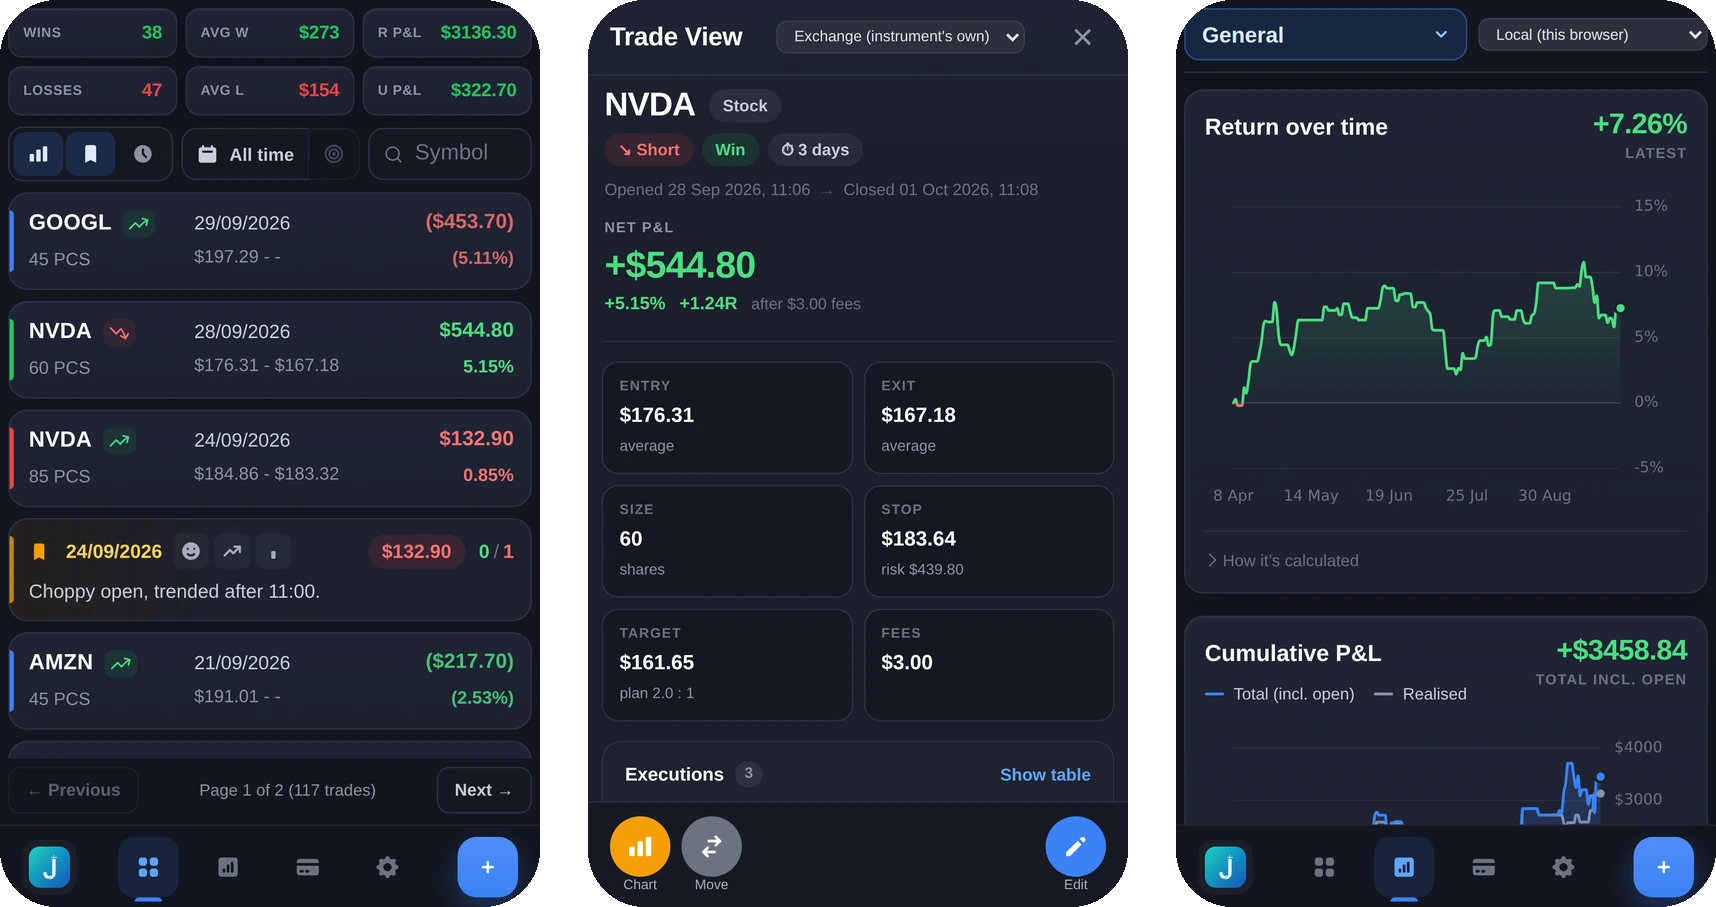
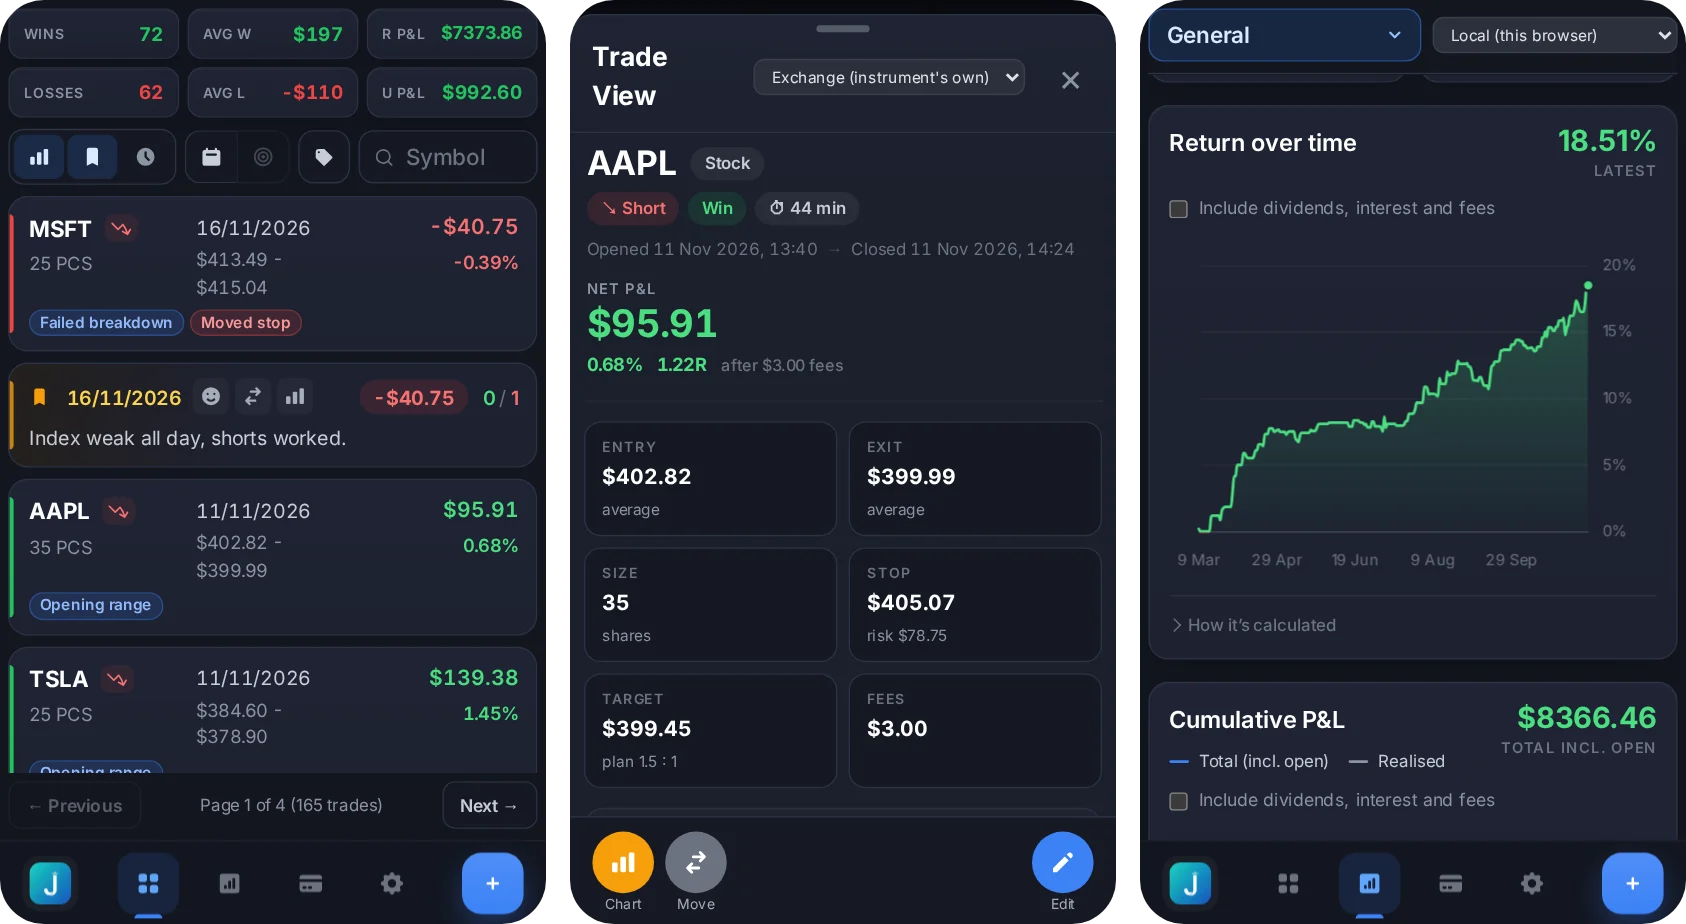
docs: current screenshots, features and setup notes
- Screenshots retaken from a generated demo journal (made-up trades and
  price history), plus a new trade chart shot: they now show the
  current look (status lights, sign rule, tags, phone cards).
- README lists the features added since: TradingView live bars, TWS and
  Flex fill imports, Capital, sub-accounts, light theme, phone layout.
- SETUP: the IBKR settings section is called "IBKR API" now; links to
  the TradingView and Cloudflare guides.
- TradingView guide: the webhook secret is added by hand to config.json
  (the app doesn't generate one).
- External API: money is in the currency named next to it, not the
  account's; a neutral analyzer name in the examples.
- AI coding instructions rewritten to match the code (no .env sample,
  contexts, task priorities, theming, the public-repo rule).
- .claude/ is git-ignored; config.json, Uploads and preview folders stay
  out of the Docker build context.

diff --git a/docs/SETUP.md b/docs/SETUP.md
@@ -58,8 +58,8 @@ Open the app and go to **Settings**:
 1. **Database** — paste your `postgresql://...` connection string. On save, the app tests the connection, then creates/migrates its schema. No manual SQL beyond step 1 is needed.
 2. **IBKR (optional)** — if you run TWS or IB Gateway:
    - In TWS/Gateway: enable the API (**Configuration → API → Settings → Enable ActiveX and Socket Clients**), and add the app's host to **Trusted IPs** if it's not running on the same machine.
-   - In the app's Settings: enter the host/port (default paper-trading port is `7497`, live is `7496`). A second address can be set as a fallback.
-   - Without IBKR connected, the app still works fully off Yahoo Finance — you'll just miss IBKR's higher-quality data and Flex Web Service imports.
+   - In **Settings → IBKR API**: enter the host/port (default paper-trading port is `7497`, live is `7496`; IB Gateway uses `4002`/`4001`). A second address can be set as a fallback. The trade form can then import your fills straight from TWS.
+   - Without IBKR connected, the app still works fully off Yahoo Finance — you'll just miss IBKR's higher-quality price history and the TWS fill import. Flex Web Service imports (next step) don't need TWS.
 3. **IBKR Flex Web Service (optional)** — for importing trades directly from IBKR, and optionally the account's cash activity (fees, interest, dividends, deposits): generate a Flex Web Service token and the Flex Queries in IBKR's Client Portal, and paste the token + query IDs into Settings → IBKR API. That page has a step-by-step guide to what to tick in IBKR's Flex Query editor, and a **Check** button that tests the saved queries and says what's missing.
 4. **Symbols** — add each symbol you trade (Settings → Symbols), including tick size/value, fees, exchange, and which timeframes to fetch. Every enabled timeframe is fetched as far back as the provider allows — no need to guess how much history to request.
 
@@ -72,7 +72,7 @@ Add a trade for a symbol you've configured, open its chart, and watch the server
 - **WebSocket status/progress indicator never connects in dev mode** — see the `REACT_APP_API_URL` note under Option B above.
 - **IBKR contract errors ("No security definition has been found")** — usually a currency/exchange mismatch for that symbol (e.g. a non-USD stock). Double-check the exchange configured for that symbol matches what IBKR expects (IBKR's own exchange codes, not always the plain-English name).
 - **Historical fetch seems stuck on one symbol for a long time** — normal for 1-minute bars on IBKR: they're chunked 7 days at a time with IBKR's own pacing delay between requests, and "as far back as possible" for a liquid, long-listed symbol can mean walking back years of chunks. It only pays this cost once per symbol/timeframe — once IBKR's real limit is discovered, it's cached and every future run skips straight past it.
-- **HIS light red (IBKR historical data not answering)** — IB Gateway can stay connected while answering no historical requests, e.g. after it reconnects to IBKR's servers; restarting it fixes that. If the gateway runs with [IBC](https://github.com/IbcAlpha/IBC), the app can ask it to reconnect by itself: enable IBC's command server (`CommandServerPort=7462`, and `ControlFrom=` this app's host name) and enter the gateway's host and that port under **Settings → TWS → Gateway auto-reconnect**. After two failed requests in a row it then sends `RECONNECTDATA`, at most every 15 minutes, and if requests still fail 5 minutes later `RESTART` (at most once an hour). A `RESTART` logs in again with the gateway's saved session, which IBKR only accepts until its weekly cut-off (Sunday 01:00 US/Eastern), so the app sends none on Sundays between 01:00 and 18:00 ET. Only enable the command server where nothing but this app can reach it: it also accepts commands such as `STOP`.
+- **HIS light red (IBKR historical data not answering)** — IB Gateway can stay connected while answering no historical requests, e.g. after it reconnects to IBKR's servers; restarting it fixes that. If the gateway runs with [IBC](https://github.com/IbcAlpha/IBC), the app can ask it to reconnect by itself: enable IBC's command server (`CommandServerPort=7462`, and `ControlFrom=` this app's host name) and enter the gateway's host and that port under **Settings → IBKR API → Gateway auto-reconnect**. After two failed requests in a row it then sends `RECONNECTDATA`, at most every 15 minutes, and if requests still fail 5 minutes later `RESTART` (at most once an hour). A `RESTART` logs in again with the gateway's saved session, which IBKR only accepts until its weekly cut-off (Sunday 01:00 US/Eastern), so the app sends none on Sundays between 01:00 and 18:00 ET. Only enable the command server where nothing but this app can reach it: it also accepts commands such as `STOP`.
 - **HIS light red, "IB Gateway logged out"** — the gateway hasn't accepted an API connection for 10 minutes. It only opens its API port once logged in, so it's usually sitting at its login screen, e.g. after a restart IBKR answered with "Session expired" because the weekly full login was due. Nothing the app can send fixes that: it stops asking the gateway to reconnect or restart and tries to connect once a minute until a connection works again. A fresh start of the gateway (with IBC, a restart of its container) logs in from scratch; IBC's `ColdRestartTime` setting does that every week by itself, best set to a time on Sunday after the cut-off.
 - **No data at all for a symbol** — check `GET /api/historical/limits?symbol=...&type=...` (or the Settings page) to see what's been discovered so far, and check the server log for the specific fetch error.
 
@@ -85,4 +85,8 @@ Add a trade for a symbol you've configured, open its chart, and watch the server
 | Trade/day-note attachments | your PostgreSQL database (`Uploads/` only holds upload temp files) |
 | Everything else (trades, journal entries, price history) | your PostgreSQL database |
 
-See also **[EXTERNAL_API.md](../EXTERNAL_API.md)** if you want another tool (e.g. an AI trade-analysis script) to read/write this data.
+See also:
+
+- **[EXTERNAL_API.md](../EXTERNAL_API.md)** if you want another tool (e.g. an AI trade-analysis script) to read/write this data.
+- **[tradingview-webhook.md](tradingview-webhook.md)** to feed live 1-minute bars from TradingView alerts.
+- **[cloudflare-access.md](cloudflare-access.md)** to reach the journal from outside your network behind a login.

diff --git a/.github/copilot-instructions.md b/.github/copilot-instructions.md
@@ -1,65 +1,46 @@
 # JJournal - AI Coding Instructions
 
-JJournal is a full-stack application for stock and futures trading journaling with AI analysis capabilities. This guide outlines key patterns and workflows to help AI agents be productive in this codebase.
+JJournal is a self-hosted trading journal for stocks and futures: trades and day notes, price charts from Yahoo Finance, IBKR and TradingView, stats, and a cash ledger (Capital). This guide outlines the patterns that matter when changing the code.
 
 ## Architecture Overview
 
-### Frontend (React)
-- Entry point: `src/App.jsx` manages the main view state and modal interactions
-- Components follow modular structure in `src/components/`
-- Context-based state management using `TradeContext` (`src/context/TradeContext.js`)
-- Each feature has its own directory with component + CSS module
+### Frontend (React 18, Create React App built via CRACO)
+- Entry point: `src/App.jsx` holds the current view and which window (trade form, trade view, day note) is open
+- Components live in `src/components/<Feature>/`, each with its own CSS module; shared pieces in `src/components/common/`
+- State shared through contexts in `src/context/`: `TradeContext` (trades, day notes, accounts), `StatusContext` (server status lights), `TagsContext`, `BrokerAlertsContext` (IBKR items waiting)
+- Helpers in `src/utils/`; money is formatted with `formatMoney.js` (minus on every negative, never a plus), timeframes shown with `timeframeLabel()` (1m/5m/15m, never the raw 1M/5M/15M codes)
+- Colours come from the CSS variables in `src/styles.css` (`--ui-*`), with light-theme values under `[data-theme=light]`; don't hard-code colours
 
 ### Backend (Node.js/Express)
-- Entry point: `server.js` handles core server setup and WebSocket integration
-- Modular route handlers in `routes/` directory
-- Database operations abstracted in `modules/database.js`
-- Task management system for background data processing in `modules/task-manager.js`
-- Interactive Brokers connection handling in `modules/ibkr-conn.js`
+- Entry point: `server.js` sets up the API, the WebSocket status channel and the background schedulers
+- Route modules in `routes/`, each a function `(dependencies) => router`, mounted under `/api`
+- The external API lives under `/api/external/v1` (`routes/external.js`, documented in `EXTERNAL_API.md`)
+- Database access and the schema (created and migrated on startup) in `modules/database.js`
+- Background price-history fetching through a priority queue in `modules/task-manager.js` and `modules/historical-data-service.js`
+- IBKR: `modules/ibkr-conn.js` (TWS/IB Gateway), `routes/ibkrFlex.js` and `modules/brokerCash.js` / `modules/brokerFills.js` (Flex Web Service)
+- Trade P&L and cash settlement: `modules/tradeCalculations.js`, `modules/tradeSettlement.js`; Capital's design: `docs/CAPITAL_TRACKING_DESIGN.md`
 
 ## Key Patterns
 
-### Data Flow
-- Frontend components communicate via `TradeContext` provider
-- Backend uses WebSocket for real-time status updates (`broadcastStatus` function)
-- Historical data processing managed through task queue system
-- Account-based routing with `X-Account-ID` header validation
-
-### State Management
-- Modal state controlled at App level, passed down via props
-- Trade data mutations handled through context actions
-- Server maintains task queue state for data processing
-- WebSocket used for real-time status updates
-
-### API Routes
-- All routes mounted under `/api`
-- Route modules follow pattern: `(dependencies) => router`
-- Protected routes require `X-Account-ID` header
-- Database endpoints check connection status
+- Internal routes need an `X-Account-ID` header; the external API doesn't
+- The server pushes status and progress over WebSocket (`broadcastStatus` in `server.js`)
+- Task priorities (lower runs first): `USER_FOREGROUND_YAHOO` < `USER_FOREGROUND_IBKR` < `USER_BACKGROUND_YAHOO` < `USER_BACKGROUND_IBKR` < `CRON_FULL_POPULATION`
+- Money is kept per currency (the symbol's currency) and never summed across currencies
 
 ## Development Workflow
 
-### Starting the Application
 ```bash
-npm run start  # Concurrently runs server and frontend
-npm run server # Backend only
-npm run app    # Frontend only
+npm start       # API (port 3999) and the CRA dev server (port 3000) together
+npm run server  # API only
+npm run app     # frontend only
+npm test        # unit tests (node --test test/*.test.js)
 ```
 
 ### Configuration
-- Environment variables loaded from `.env` (create from sample)
-- Database URL and API keys configured via `/api/config` endpoint
-- IBKR connection settings in configuration
-- Logging handled by Winston (`modules/logger.js`)
+- Settings are saved from the app's Settings page into `config.json`, in the folder named by the `USER_PATH` environment variable (default: the project folder); it holds secrets and is git-ignored
+- `.env.development` (git-ignored) can set `REACT_APP_API_URL` when the frontend and API run on different hosts, see `docs/SETUP.md`
+- Logging through Winston (`modules/logger.js`) to `server.log`, `server-error.log` and `cron.log` next to `config.json`
 
-### Data Processing
-- Historical data fetched through task queue system
-- Cron jobs scheduled for regular data updates
-- Task priorities: USER_FOREGROUND > CRON_FULL_POPULATION
+## Public repository
 
-## Critical Files
-- `server.js`: Core server setup and WebSocket handling
-- `src/App.jsx`: Main view management and routing
-- `modules/task-manager.js`: Background task processing
-- `modules/database.js`: Database operations
-- `routes/*.js`: API endpoint implementations
+This repository is public. Never put real account names or IDs, amounts, prices, dates or symbols from someone's own trading into code, comments, tests, docs or commit messages: invent example values (made-up tickers such as `ABC` or `ETFA.DE`, account IDs such as `U1000001`).

diff --git a/README.md b/README.md
@@ -19,10 +19,14 @@ Everything runs on your own machine/server against your own PostgreSQL database 
   - Yahoo Finance as a fast/always-available source; IBKR TWS as a higher-quality source that supersedes it where available
   - Each enabled timeframe is fetched as far back as the provider actually allows — Yahoo's limits are known in advance, IBKR's are discovered automatically and cached so the app doesn't keep re-requesting data that doesn't exist
   - Futures continuous contracts built automatically from individual IBKR contracts, with rollover detection
-- Stats dashboard: win rate, expectancy, Sharpe/Sortino, streaks, hourly/day-of-week breakdowns, return distribution
-- IBKR Flex Web Service import for reconciling trade activity/executions
+  - Optional live 1-minute bars from TradingView alerts, see [docs/tradingview-webhook.md](docs/tradingview-webhook.md)
+- Stats dashboard: win rate, expectancy, Sharpe/Sortino, streaks, hourly/day-of-week breakdowns, return distribution, return over time
+- IBKR imports: fills straight from TWS/IB Gateway in the trade form, and from the Flex Web Service, with fees corrected to IBKR's
+- Capital: a cash ledger per account and currency (deposits, withdrawals, transfers, conversions, dividends, fees), T-bill/bond holdings, and an IBKR cash sync whose items wait in an inbox and whose balances are checked against IBKR's
+- Accounts and sub-accounts, e.g. one IBKR account split into stocks and futures, each with its own trades and checklists
 - A [read/write external API](EXTERNAL_API.md) for feeding your data into another tool (e.g. an LLM-based trade analyzer) — no auth by design, see that doc before exposing it beyond localhost
 - Multi-currency: each symbol has its own currency, and money is shown per currency, never blended
+- Dark and light theme, and a layout for phones and tablets (it can be added to the home screen)
 
 ## Screenshots
 
@@ -36,6 +40,11 @@ Everything runs on your own machine/server against your own PostgreSQL database 
     <td width="50%"><img src="docs/screenshots/calendar.webp" alt="Calendar: daily and weekly P&L"><br><sub><b>Calendar</b>: daily and weekly P&L. Click a day or week to filter the Dashboard.</sub></td>
   </tr>
 </table>
+
+<p align="center">
+  <img src="docs/screenshots/trade-chart.webp" alt="Trade chart: the fills as arrows on 5-minute bars, with the stop, average entry and average exit" width="100%"><br>
+  <sub><b>Trade chart</b>: every fill on the price history, with the stop, average entry and exit. Any timeframe from 1m to 1W.</sub>
+</p>
 
 Works on phones too:
 

diff --git a/EXTERNAL_API.md b/EXTERNAL_API.md
@@ -16,7 +16,7 @@ If this server is ever reachable outside a network you trust, put it behind a re
 
 - All responses are JSON.
 - All timestamps are ISO 8601 in UTC (e.g. `2026-03-14T13:45:00.000Z`).
-- Money fields are plain numbers (no currency symbol), in account currency.
+- Money fields are plain numbers (no currency symbol), in the currency named next to them (a trade's `currency`, a cash row's or holding's `currency`). Nothing is converted between currencies.
 - Paginated list endpoints (`trades`, `accounts/:id/cash-transactions`, `holdings`) return an object with a `total` count, `limit`, `offset`, and the array under a named key, not a bare array. `daynotes` returns every matching note with a `total` count (no paging). Non-paginated list endpoints (`accounts`, `symbols`) return just the named key — no `total` field, since there's nothing to paginate.
 - Calendar dates without a time (a day note's `date`, a holding's `purchase_date`/`maturity_date`) are plain `YYYY-MM-DD`.
 - Errors are `{ "error": "message" }` with a non-2xx status code.
@@ -211,7 +211,7 @@ List trades across one or all accounts, with computed fields included so you don
     "confidence": 4,
     "execution_rating": 3,
     "ai_analysis": "This trade caught a clean breakout but the stop was tight relative to recent ATR...",
-    "ai_analysis_source": "hermes-gpt5",
+    "ai_analysis_source": "my-analyzer",
     "ai_analysis_updated_at": "2026-05-13T09:10:00.000Z"
   },
 
@@ -272,7 +272,7 @@ Write-back: attach your analysis to a trade. Stored separately from `notes_html`
 ```json
 {
   "analysis": "Free-text analysis, markdown or plain text.",
-  "source": "hermes-gpt5"
+  "source": "my-analyzer"
 }
 ```
 

diff --git a/docs/tradingview-webhook.md b/docs/tradingview-webhook.md
@@ -10,7 +10,7 @@ TradingView alerts are evaluated and dispatched from TradingView's own cloud ser
 
 ## 1. The secret
 
-A `tradingViewWebhookSecret` is already generated in your `config.json` (added when this feature was set up). Anyone who can reach the webhook URL *and* knows this secret can write bars into your journal, so treat it like a password — it's what stands in for the "no auth, trusted network" model the rest of the app uses, since this one endpoint can't rely on that.
+Add a `tradingViewWebhookSecret` to your `config.json` — a long random string, e.g. the output of `openssl rand -hex 32`. It's read on every request, so no restart is needed. Until it's set, the webhook answers `503`, and the TV light in the navigation stays hidden. Anyone who can reach the webhook URL *and* knows this secret can write bars into your journal, so treat it like a password — it's what stands in for the "no auth, trusted network" model the rest of the app uses, since this one endpoint can't rely on that.
 
 ## 2. Expose just this one path
 
